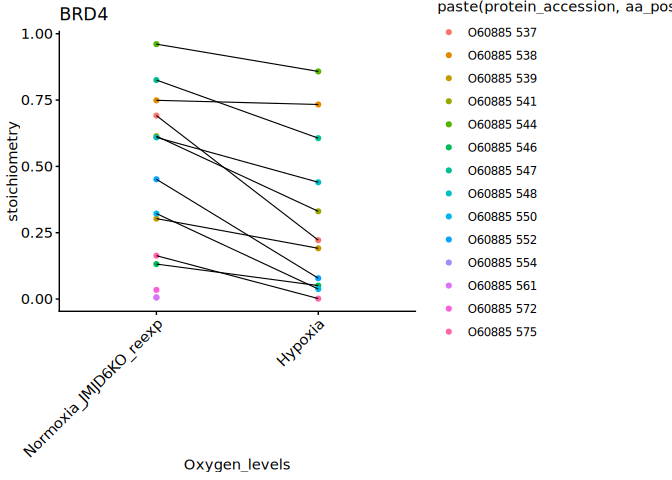
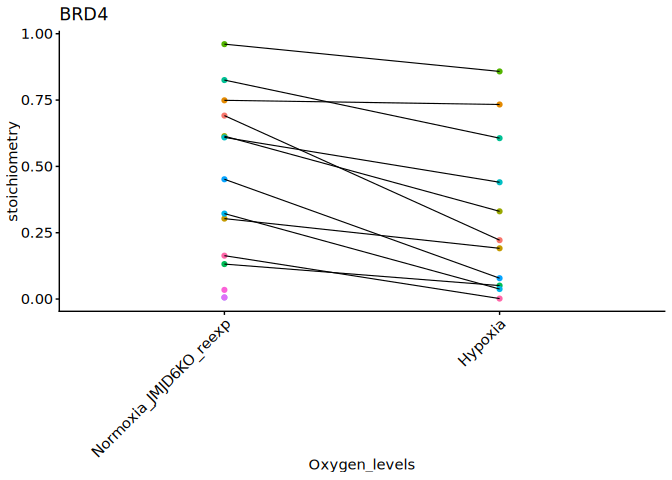
md_plots_updated

diff --git a/R/p2_lysine-rich-domain-LCMS/p2-5_MS_KR1.md b/R/p2_lysine-rich-domain-LCMS/p2-5_MS_KR1.md
@@ -252,8 +252,8 @@ gc()
 ```
 
     ##            used  (Mb) gc trigger  (Mb) max used  (Mb)
-    ## Ncells  4296016 229.5    8173162 436.5  8173162 436.5
-    ## Vcells 21529212 164.3   64858526 494.9 64857779 494.9
+    ## Ncells  4296014 229.5    8174550 436.6  8174550 436.6
+    ## Vcells 21529297 164.3   64858672 494.9 64858492 494.9
 
 # 2.5.4 Plotting Stoichiometry values of hypoxia and normoxia data (+ diagnostic ion)
 
@@ -369,7 +369,7 @@ ggplot(
   geom_line(linewidth = 0.4) +
   labs(title = "BRD4") +
   theme(axis.text.x = element_text(angle = 45, hjust = 1)) + 
-  theme(legend.position="right") +
+  theme(legend.position="none") +
   scale_x_discrete(limits = rev(levels(MS_KR1_stoic_dt$Oxygen_levels)))
 ```
 
@@ -431,7 +431,55 @@ library(viridis)
     ## Loading required package: viridisLite
 
 ``` r
-# Plot 1 - JMJD6 re-expression - BRD2
+# Plot - JMJD6 re-expression - BRD2
+ggplot(
+  data = MS_KR1_stoic_dt[gene_name %in% c("BRD2") & diagnostic_peak == "+"],
+  aes(
+    x = Oxygen_levels,
+    y = stoichiometry
+  )
+) +
+  stat_boxplot(geom = "errorbar", width = 0.25) + 
+  geom_boxplot() +
+  geom_point(aes(colour = paste(protein_accession, aa_pos))) +
+  geom_line(aes(group =  aa_pos), size=0.3, colour='black') +
+  labs(title = "BRD2") +
+  theme(axis.text.x = element_text(angle = 45, hjust = 1)) + 
+  theme(legend.position="none") +
+  scale_x_discrete(limits = rev(levels(MS_KR1_stoic_dt$Oxygen_levels)))
+```
+
+    ## Warning: Using `size` aesthetic for lines was deprecated in ggplot2 3.4.0.
+    ## ℹ Please use `linewidth` instead.
+    ## This warning is displayed once every 8 hours.
+    ## Call `lifecycle::last_lifecycle_warnings()` to see where this warning was
+    ## generated.
+
+![](p2-5_MS_KR1_files/figure-gfm/JMJD6_reexpression-4.png)<!-- -->
+
+``` r
+# Plot - JMJD6 re-expression - BRD3
+ggplot(
+  data = MS_KR1_stoic_dt[gene_name %in% c("BRD3") & diagnostic_peak == "+"],
+  aes(
+    x = Oxygen_levels,
+    y = stoichiometry
+  )
+) +
+  stat_boxplot(geom = "errorbar", width = 0.25) + 
+  geom_boxplot() +
+  geom_point(aes(colour = paste(protein_accession, aa_pos))) +
+  geom_line(aes(group =  aa_pos), size=0.3, colour='black') +
+  labs(title = "BRD3") +
+  theme(axis.text.x = element_text(angle = 45, hjust = 1)) + 
+  theme(legend.position="none") +
+  scale_x_discrete(limits = rev(levels(MS_KR1_stoic_dt$Oxygen_levels)))
+```
+
+![](p2-5_MS_KR1_files/figure-gfm/JMJD6_reexpression-5.png)<!-- -->
+
+``` r
+# Plot - JMJD6 re-expression - BRD4
 ggplot(
   data = MS_KR1_stoic_dt[gene_name %in% c("BRD4") & diagnostic_peak == "+"],
   aes(
@@ -440,16 +488,16 @@ ggplot(
   )
 ) +
   stat_boxplot(geom = "errorbar", width = 0.25) + 
-  geom_boxplot(outlier.colour="red", outlier.shape=8,
-               outlier.size=4) +
-  geom_jitter(color= "steelblue", size=1.7, alpha=1) +
+  geom_boxplot() +
+  geom_point(aes(colour = paste(protein_accession, aa_pos))) +
+  geom_line(aes(group =  aa_pos), size=0.3, colour='black') +
   labs(title = "BRD4") +
   theme(axis.text.x = element_text(angle = 45, hjust = 1)) + 
   theme(legend.position="none") +
   scale_x_discrete(limits = rev(levels(MS_KR1_stoic_dt$Oxygen_levels)))
 ```
 
-![](p2-5_MS_KR1_files/figure-gfm/JMJD6_reexpression-4.png)<!-- -->
+![](p2-5_MS_KR1_files/figure-gfm/JMJD6_reexpression-6.png)<!-- -->
 
 # Session information
 
